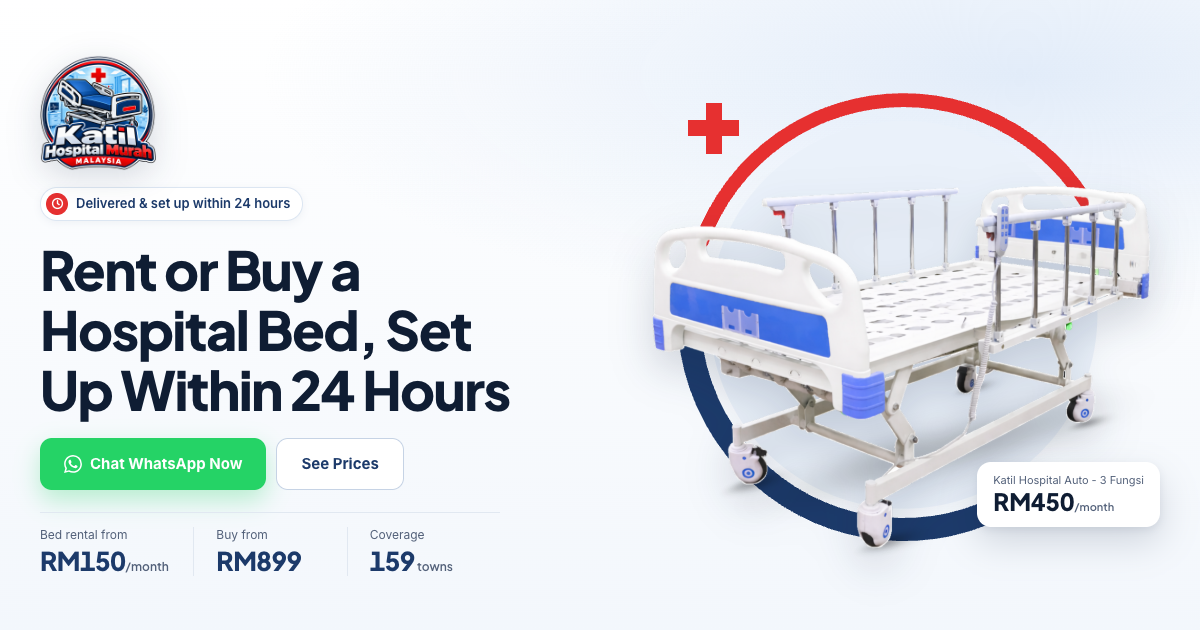
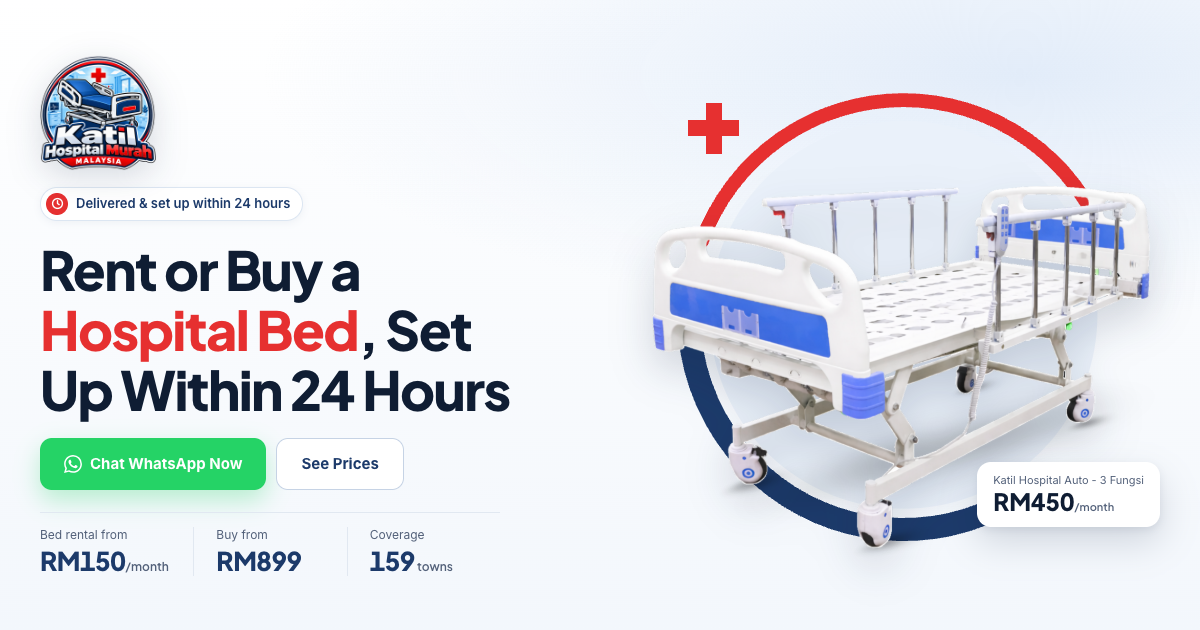
fix(katilhospital-24jam): room under the hero price row, product name red in the H1
- Desktop: the navy wave started right under the hero's price facts
  row, so the numbers sat on the band. The wave gets a 40px top margin
  at >=900px; phone is unchanged (the bed image sits between the two).
- H1: the product name renders red via markPhrase() in HeroArc, on the
  homepage and every location page. The phrase is a translation key
  (hero.h1Highlight / location.h1Highlight: "Katil Hospital",
  "Hospital Bed", "医院病床" / "病床"); a title without it renders
  unmarked. Still exactly one h1 per page.
- Social share cards regenerated to show the red H1. The og-shot hides
  the wave, so the spacing change does not move the card.

Closes #218
Closes #219

Changed region(s): [[0.0308, 0.4825, 0.3083, 0.573]]

diff --git a/projects/katilhospital-24jam/components/HeroArc.tsx b/projects/katilhospital-24jam/components/HeroArc.tsx
@@ -12,6 +12,24 @@ import { locations } from '@/config/locations';
 const FEATURED_SLUG = 'katil-hospital-auto-3-fungsi';
 const BED_PREFIX = 'katil-hospital';
 
+/**
+ * Wraps the first occurrence of `phrase` in `text` with the red H1 mark, so
+ * the product name ("Katil Hospital") stands out in the hero title. The phrase
+ * lives in the translation files; if a locale's title doesn't contain it, the
+ * title renders unmarked rather than failing.
+ */
+export function markPhrase(text: string, phrase: string): ReactNode {
+  const i = phrase ? text.indexOf(phrase) : -1;
+  if (i === -1) return text;
+  return (
+    <>
+      {text.slice(0, i)}
+      <span className="kh-hero-title-mark">{phrase}</span>
+      {text.slice(i + phrase.length)}
+    </>
+  );
+}
+
 function lowest(values: (number | null | undefined)[]): number | null {
   const real = values.filter((v): v is number => typeof v === 'number' && v > 0);
   return real.length > 0 ? Math.min(...real) : null;

diff --git a/projects/katilhospital-24jam/app/globals.css b/projects/katilhospital-24jam/app/globals.css
@@ -697,6 +697,11 @@ h1, h2, h3, h4, h5, h6 {
   color: var(--ink);
   text-wrap: balance;
 }
+/* Product name in the H1. Red at display size clears the 3:1 large-text
+   contrast floor on the pale hero ground. */
+.kh-hero-title-mark {
+  color: var(--accent);
+}
 .kh-hero-sub {
   font-size: 16px;
   font-weight: 400;
@@ -858,7 +863,9 @@ h1, h2, h3, h4, h5, h6 {
   .kh-hero-visual { max-width: none; margin: 0; }
   .kh-hero-tag { padding: 12px 16px; }
   .kh-hero-tag strong { font-size: 24px; }
-  .kh-hero-wave { width: calc(100% + 80px); height: 60px; margin: -6px -40px 0; }
+  /* Top margin is the gap under the price facts row; the copy column is the
+     taller one on desktop, so without it the numbers sit on the wave. */
+  .kh-hero-wave { width: calc(100% + 80px); height: 60px; margin: 40px -40px 0; }
 }
 
 /* ── USP bar — navy band continuing the hero wave ── */

diff --git a/projects/katilhospital-24jam/app/[locale]/katil-hospital/[location]/LocationPageClient.tsx b/projects/katilhospital-24jam/app/[locale]/katil-hospital/[location]/LocationPageClient.tsx
@@ -6,7 +6,7 @@ import Navbar from '@/components/Navbar';
 import Footer from '@/components/Footer';
 import WhatsAppButton from '@/components/WhatsAppButton';
 import HomeSections from '@/components/HomeSections';
-import HeroArc from '@/components/HeroArc';
+import HeroArc, { markPhrase } from '@/components/HeroArc';
 import Eyebrow from '@/components/Eyebrow';
 import { waRedirect } from '@/lib/waRedirect';
 import type { ProductCardData } from '@/components/ProductCard';
@@ -56,7 +56,7 @@ export default function LocationPageClient({
 
       {/* SECTION 3 — HERO */}
       <HeroArc
-        title={<h1 className="kh-hero-title">{h1}</h1>}
+        title={<h1 className="kh-hero-title">{markPhrase(h1, locT('h1Highlight'))}</h1>}
         subtitle={<h2 className="kh-hero-sub">{h2}</h2>}
         badge={locT('badge', { city: location.name })}
         products={products}

diff --git a/projects/katilhospital-24jam/app/[locale]/HomePageClient.tsx b/projects/katilhospital-24jam/app/[locale]/HomePageClient.tsx
@@ -5,7 +5,7 @@ import Navbar from '@/components/Navbar';
 import Footer from '@/components/Footer';
 import WhatsAppButton from '@/components/WhatsAppButton';
 import HomeSections from '@/components/HomeSections';
-import HeroArc from '@/components/HeroArc';
+import HeroArc, { markPhrase } from '@/components/HeroArc';
 import { waRedirect } from '@/lib/waRedirect';
 import type { ProductCardData } from '@/components/ProductCard';
 
@@ -28,7 +28,7 @@ export default function HomePageClient({ locale, products, chromeProvided = fals
 
       {/* SECTION 3 — HERO */}
       <HeroArc
-        title={<h1 className="kh-hero-title">{heroT('h1')}</h1>}
+        title={<h1 className="kh-hero-title">{markPhrase(heroT('h1'), heroT('h1Highlight'))}</h1>}
         subtitle={<h2 className="kh-hero-sub">{heroT('h2')}</h2>}
         badge={heroT('badge')}
         products={products}
